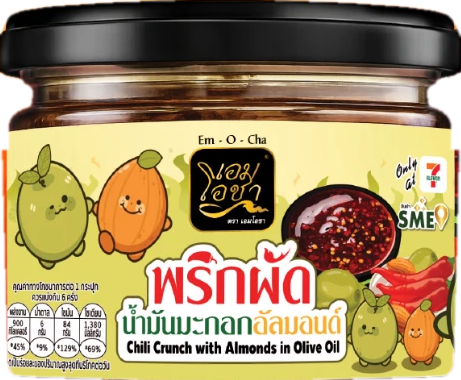
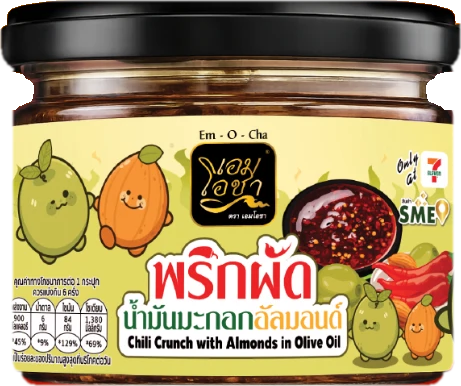
Brochure: recut the jar from its measured outline so the base under the label is kept
Claude-Session: https://claude.ai/code/session_01NUktXCevgoBb28q1aw38PS

diff --git a/brochure/index.html b/brochure/index.html
@@ -140,7 +140,7 @@ body{font-family:'IBM Plex Sans Thai',sans-serif;background:#120806;color:#fff;o
   </section>
   <section class="slide" data-bg="hit.webp" data-ms="0">
     <div class="cta">
-      <img class="jar" src="jar.webp" alt="กระปุกพริกผัดน้ำมันมะกอกอัลมอนด์ เอมโอชา">
+      <img class="jar" src="jar.webp?v=3" alt="กระปุกพริกผัดน้ำมันมะกอกอัลมอนด์ เอมโอชา">
       <h2>ของดีควรมีติด Shelf 🌶</h2>
       <p class="sub">พริกผัดน้ำมันมะกอกอัลมอนด์ · Chili Crunch with Almonds in Olive Oil</p>
       <div class="chip"><span>🏪 Only at 7-Eleven</span><span>⭐ 5/5 จากลูกค้า</span><span>🔥 1.3M views</span></div>
